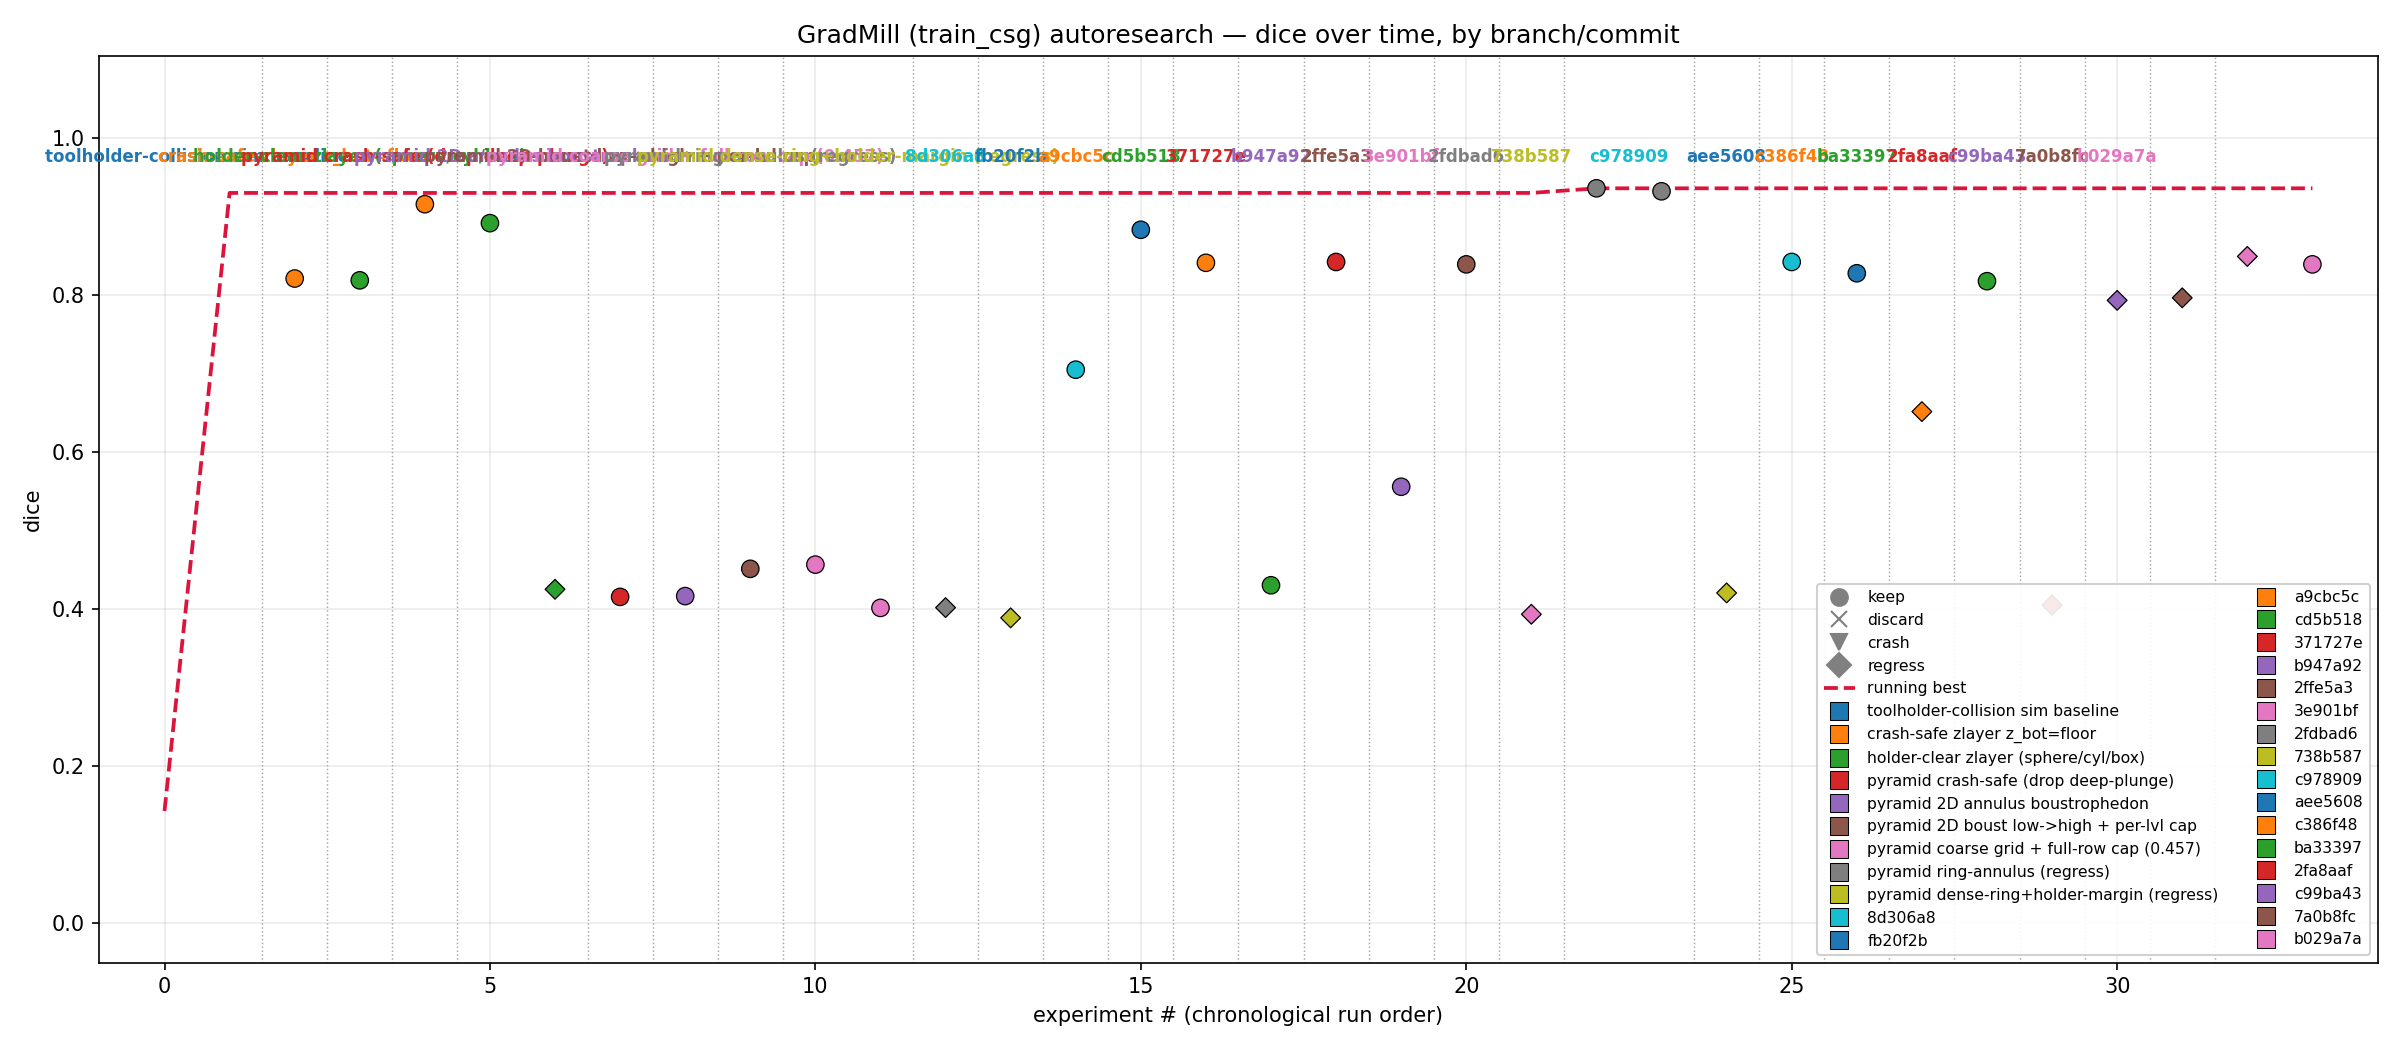
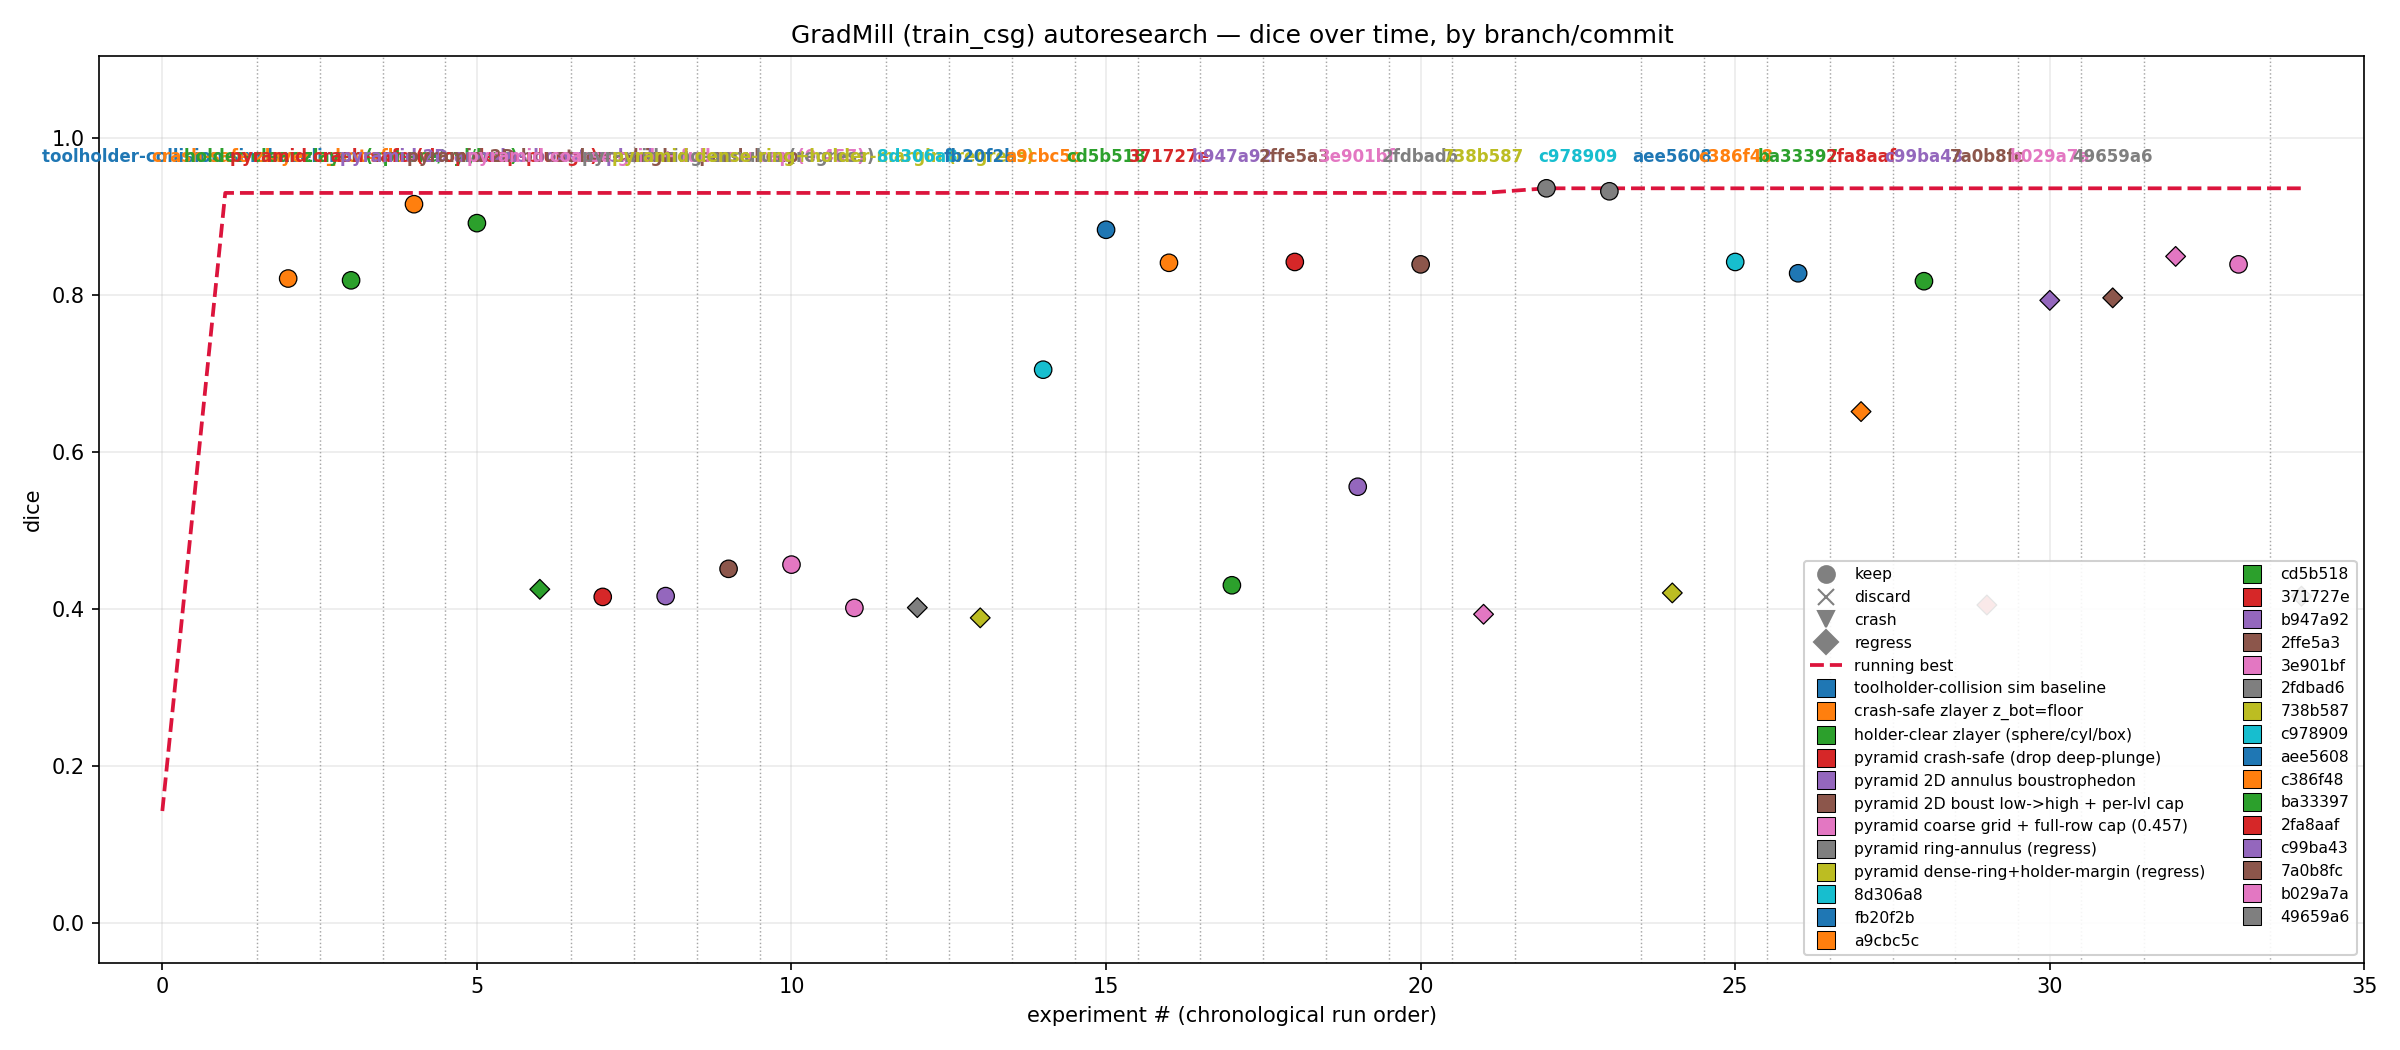
consolidate still-open section; regen plot (35 experiments, 28 commits)

diff --git a/autoresearch/tasks/train_csg/findings.md b/autoresearch/tasks/train_csg/findings.md
@@ -271,14 +271,11 @@ articulated holder) lifts it.
   1in+50mm sphere ceiling. **An extreme 75mm tool (ratio 2.95) also gives 0.8396
   — saturates at 50mm; 0.840 is the ceiling for any tool ≥50mm.**
 - The `holder_margin` soft barrier (weight 50) is overpowered by the residual
-  loss; a higher weight or a hard holder clamp (analogous to the z-floor) would
-  let face-hugging low-zb inits survive trunc — untested.
-- **RESOLVED (dead lever):** a 10× holder barrier (weight 500 + margin 0.04
-  matching the trunc threshold) on the 1in pyramid REGRESSES to 0.417 (vs 0.457).
-  The higher weight **over-constrains** the optimizer (best@iter0 0.417 vs
-  default best@iter15 0.457) and pushes the holder *away* (min clr 11.7mm, not
-  close) — the heavy penalty makes face-hugging too costly. The champion's
-  improving moves don't violate clearance anyway (default min clr 18mm, barrier
-  not binding). The face-hugging-low-zb path stays closed because of **coverage
-  geometry** (single-radius bands, a confirmed dead lever), not the barrier
-  weight. Default weight 50 / margin 0 is optimal.
+  loss — but raising it does NOT help (see dead lever above): a 10× barrier
+  (weight 500 + margin 0.04) REGRESSES the pyramid to 0.417 (over-constrains the
+  optimizer, pushes the holder away). Default weight 50 / margin 0 is optimal.
+  The face-hugging-low-zb path stays closed because of **coverage geometry**
+  (single-radius bands), not the barrier weight. A hard holder clamp (analogous
+  to the z-floor) remains untested but would only recover the dead ring variants
+  to ~0.42, still below the 0.457 coarse-grid champion — not a path to beating
+  the ceiling.
